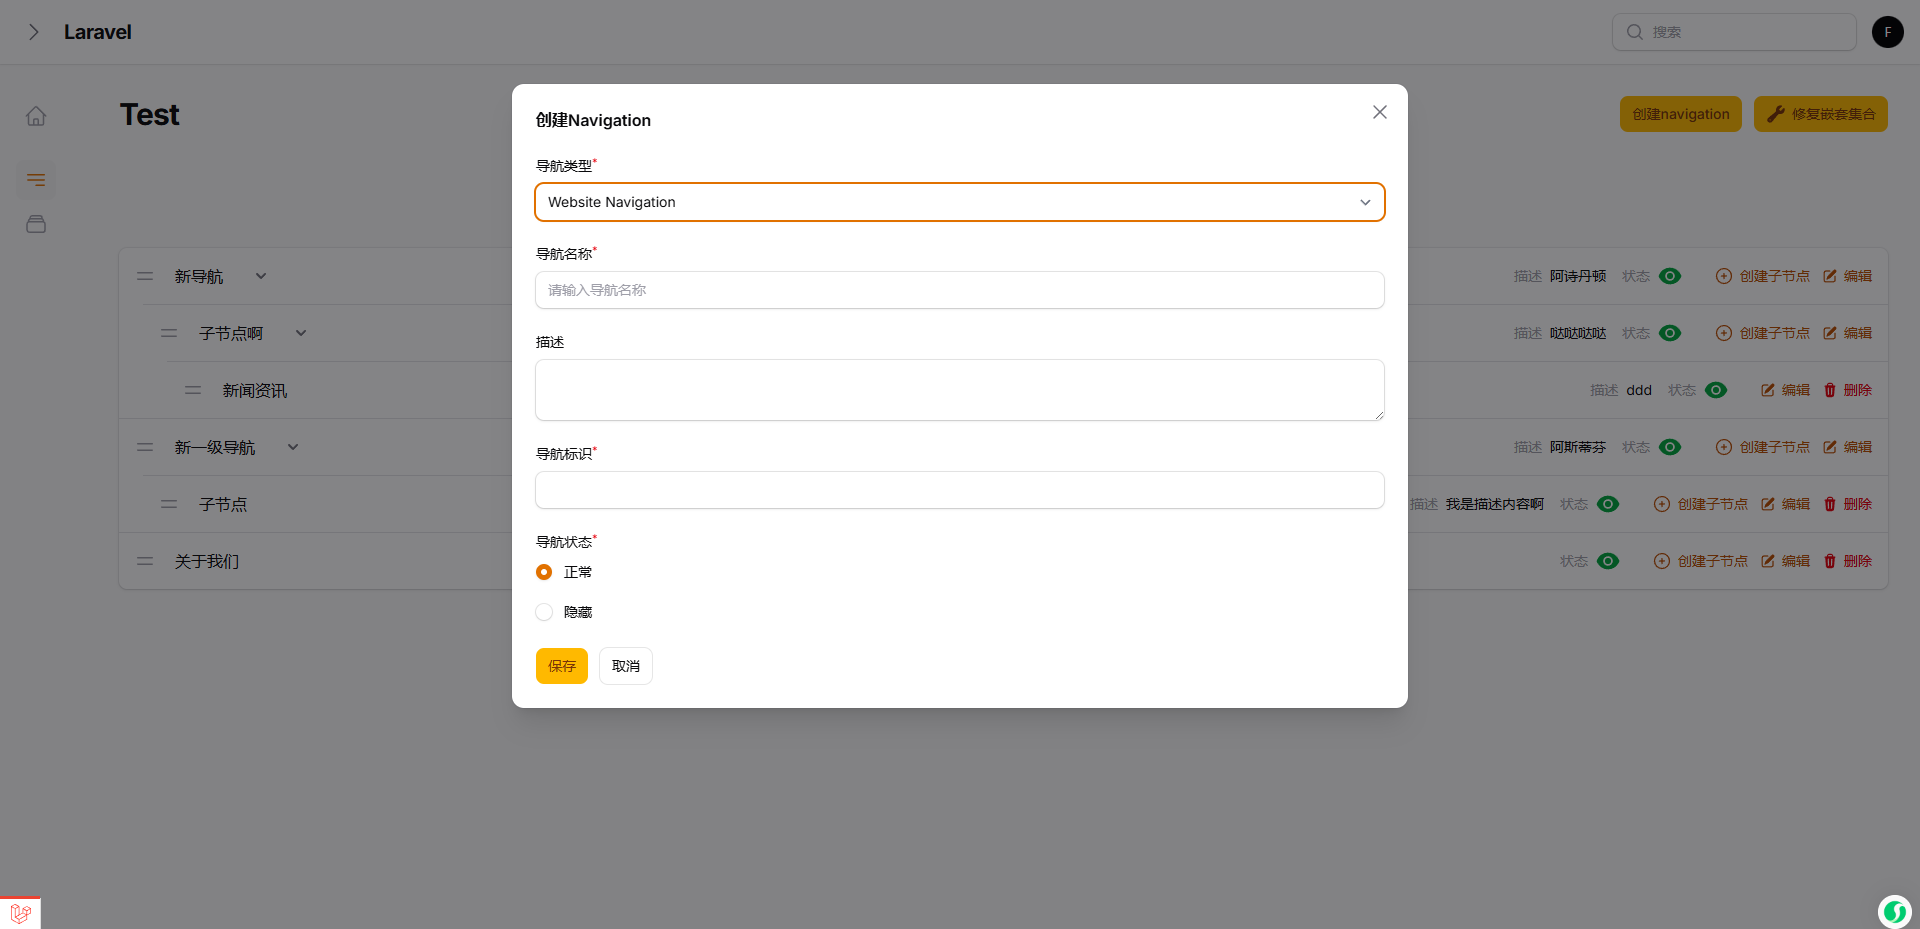
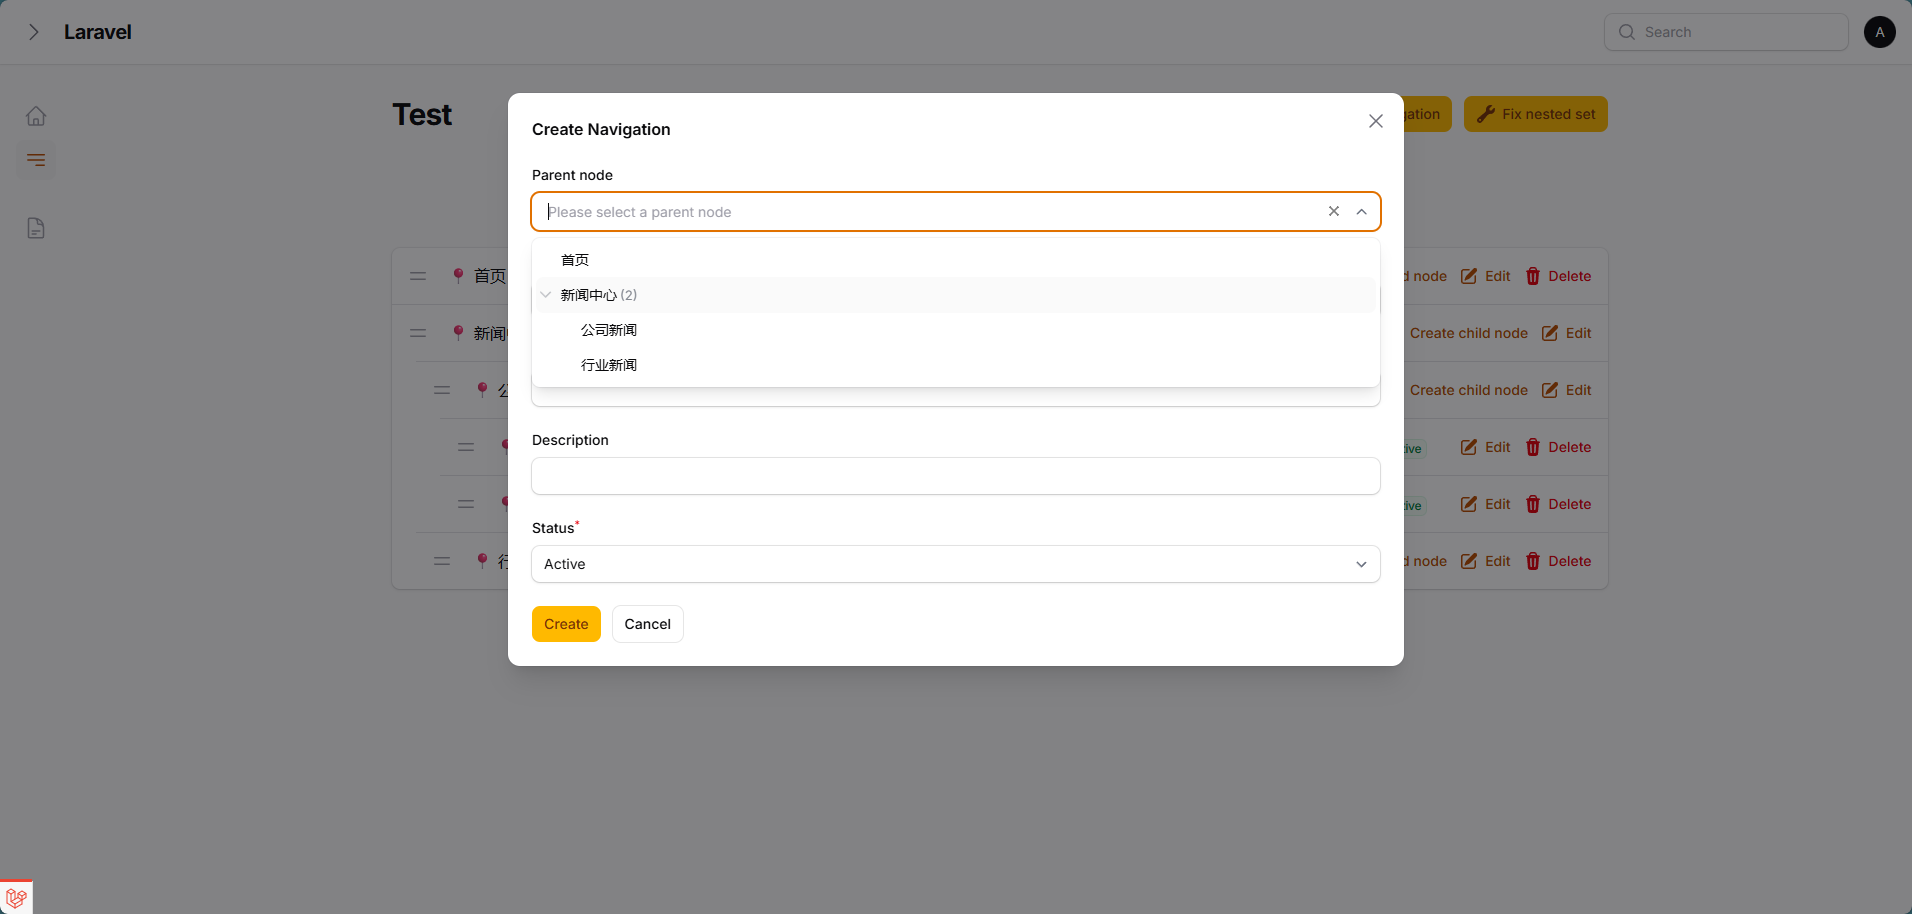
更新截图

diff --git a/README.md b/README.md
@@ -39,10 +39,10 @@ The default `NestedsetPage` renders the tree from its own view and handles CRUD,
 
 ## Screenshots
 
-![Light](https://raw.githubusercontent.com/Wsmallnews/filament-nestedset/refs/heads/v2/assets/light.png)
-![Dark](https://raw.githubusercontent.com/Wsmallnews/filament-nestedset/refs/heads/v2/assets/dark.png)  
-![Create](https://raw.githubusercontent.com/Wsmallnews/filament-nestedset/refs/heads/v2/assets/create.png)
-![Hasparentselect](https://raw.githubusercontent.com/Wsmallnews/filament-nestedset/refs/heads/v2/assets/hasparentselect.png)
+![Light](https://raw.githubusercontent.com/Wsmallnews/filament-nestedset/refs/heads/v3/assets/light.png)
+![Dark](https://raw.githubusercontent.com/Wsmallnews/filament-nestedset/refs/heads/v3/assets/dark.png)  
+![Create](https://raw.githubusercontent.com/Wsmallnews/filament-nestedset/refs/heads/v3/assets/create.png)
+![Hasparentselect](https://raw.githubusercontent.com/Wsmallnews/filament-nestedset/refs/heads/v3/assets/widget.png)
 
 ## AI Guidelines
 
